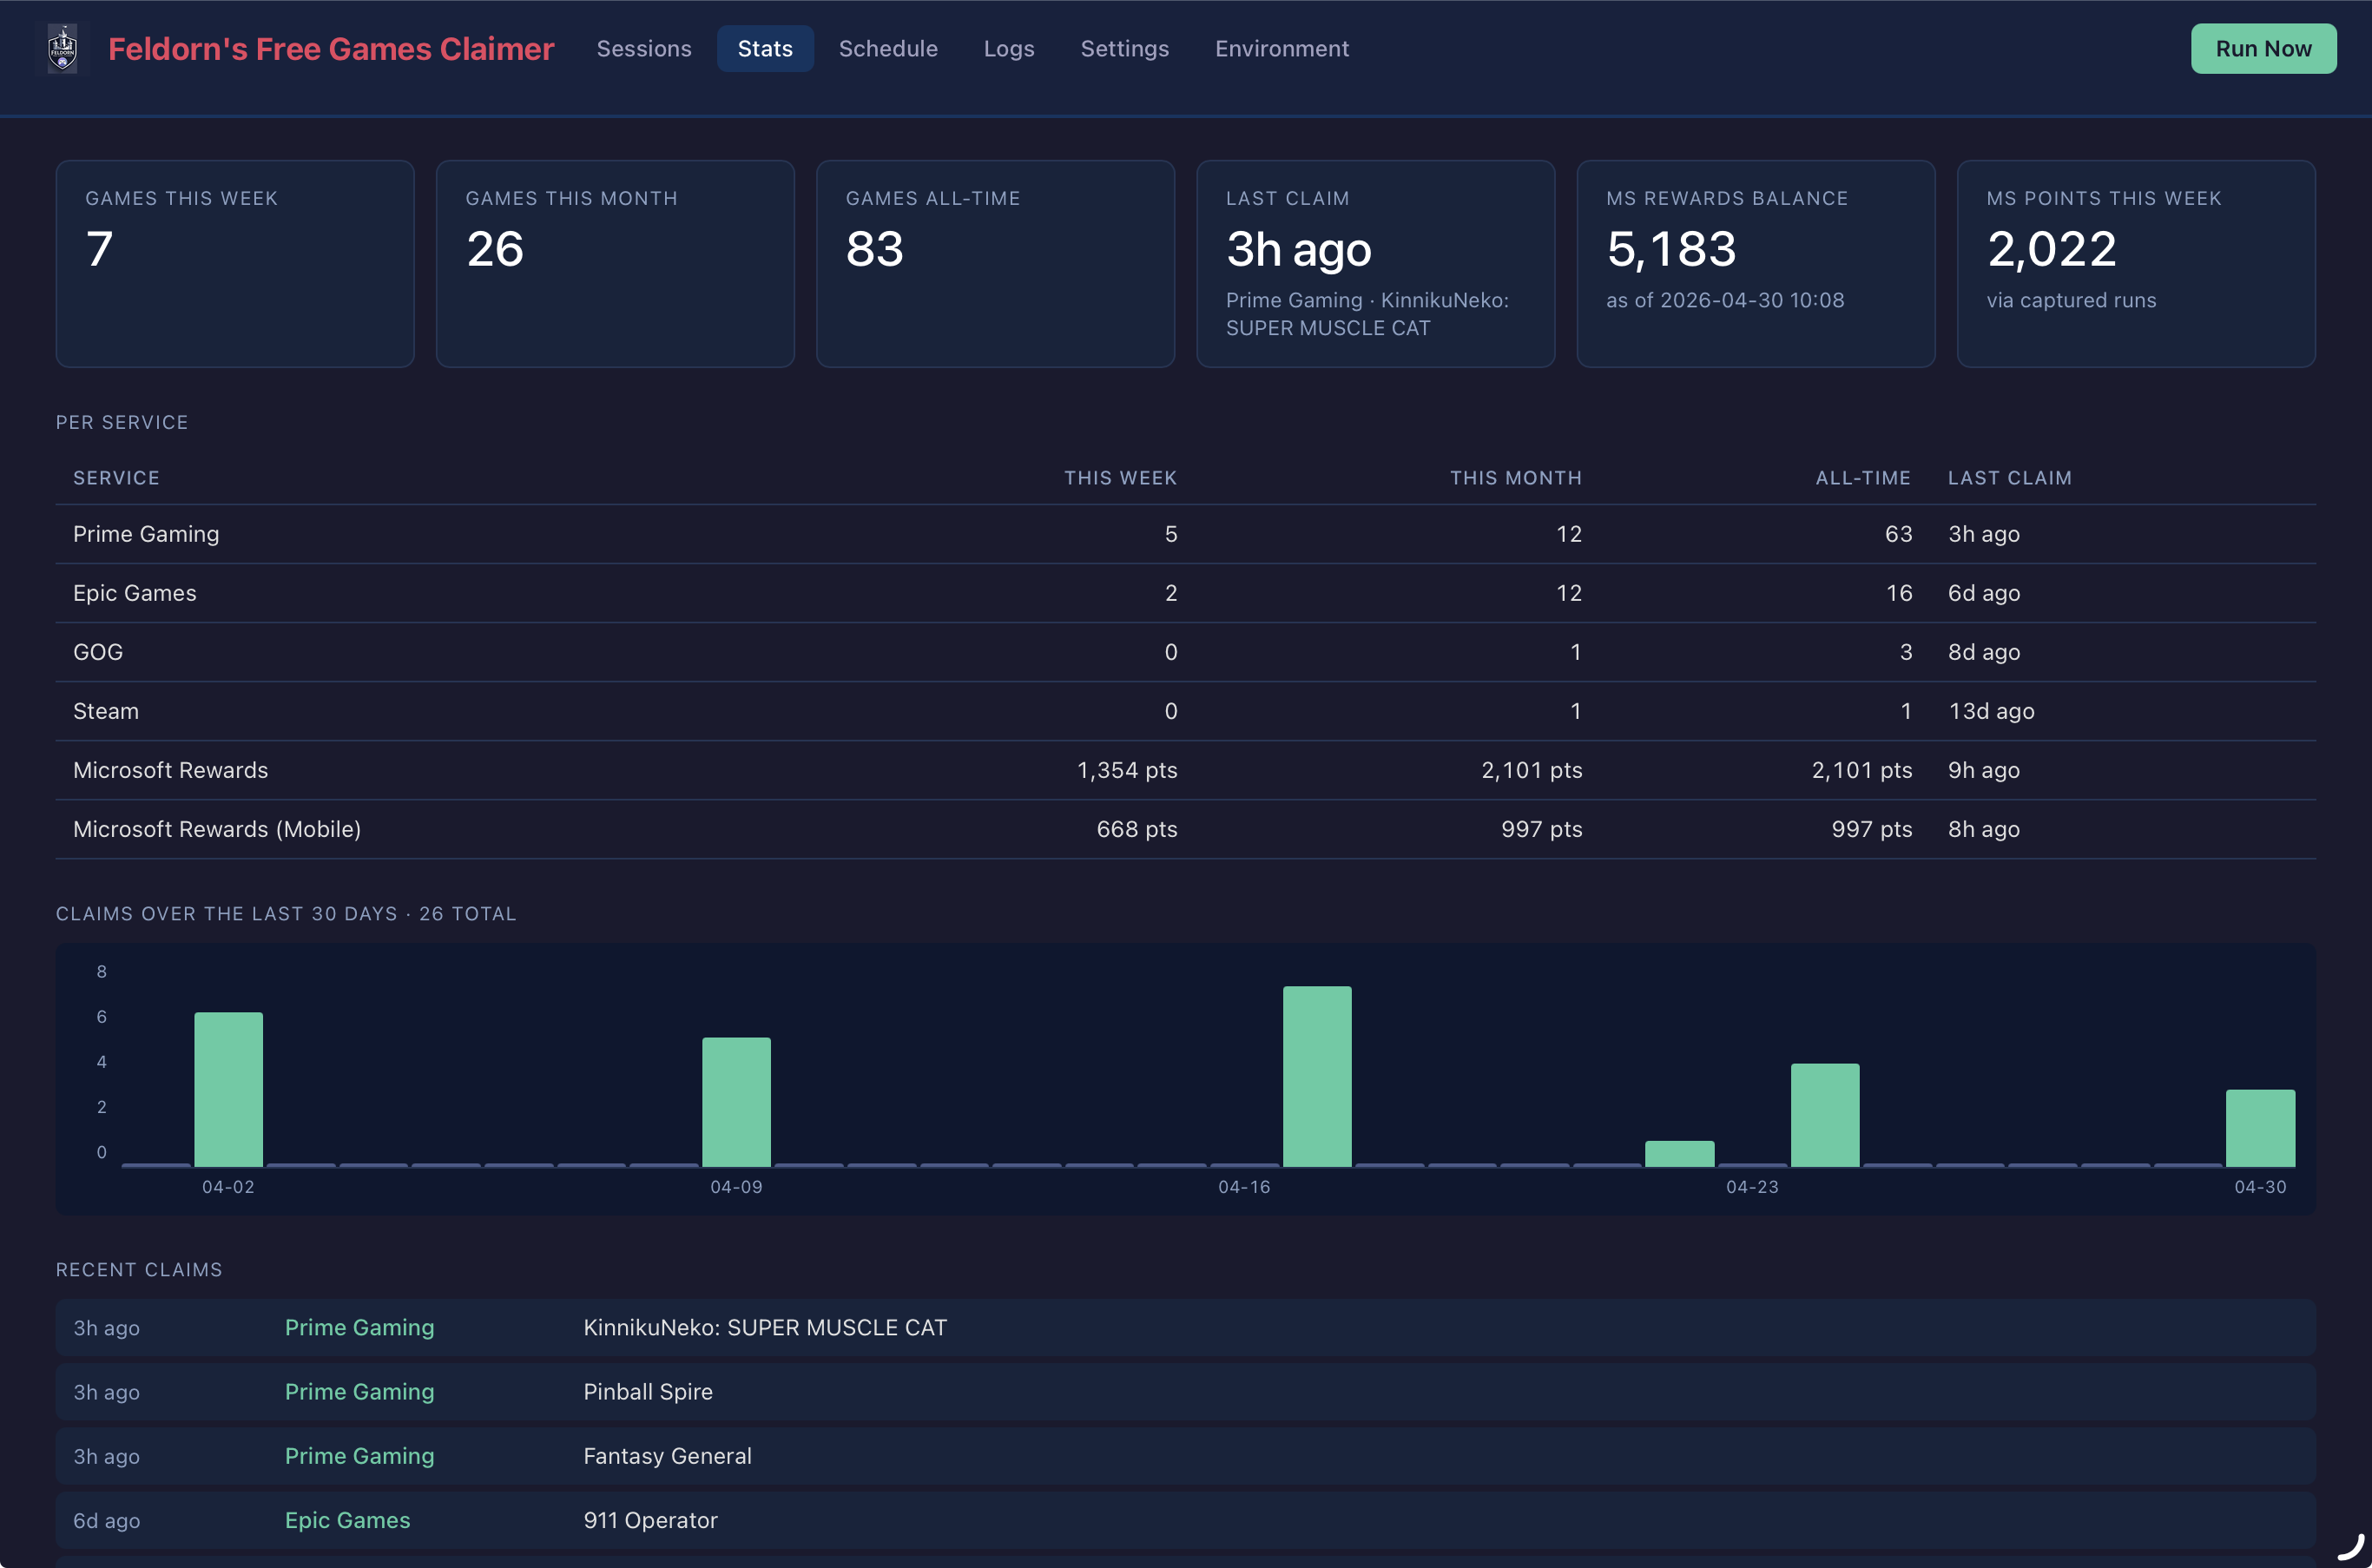
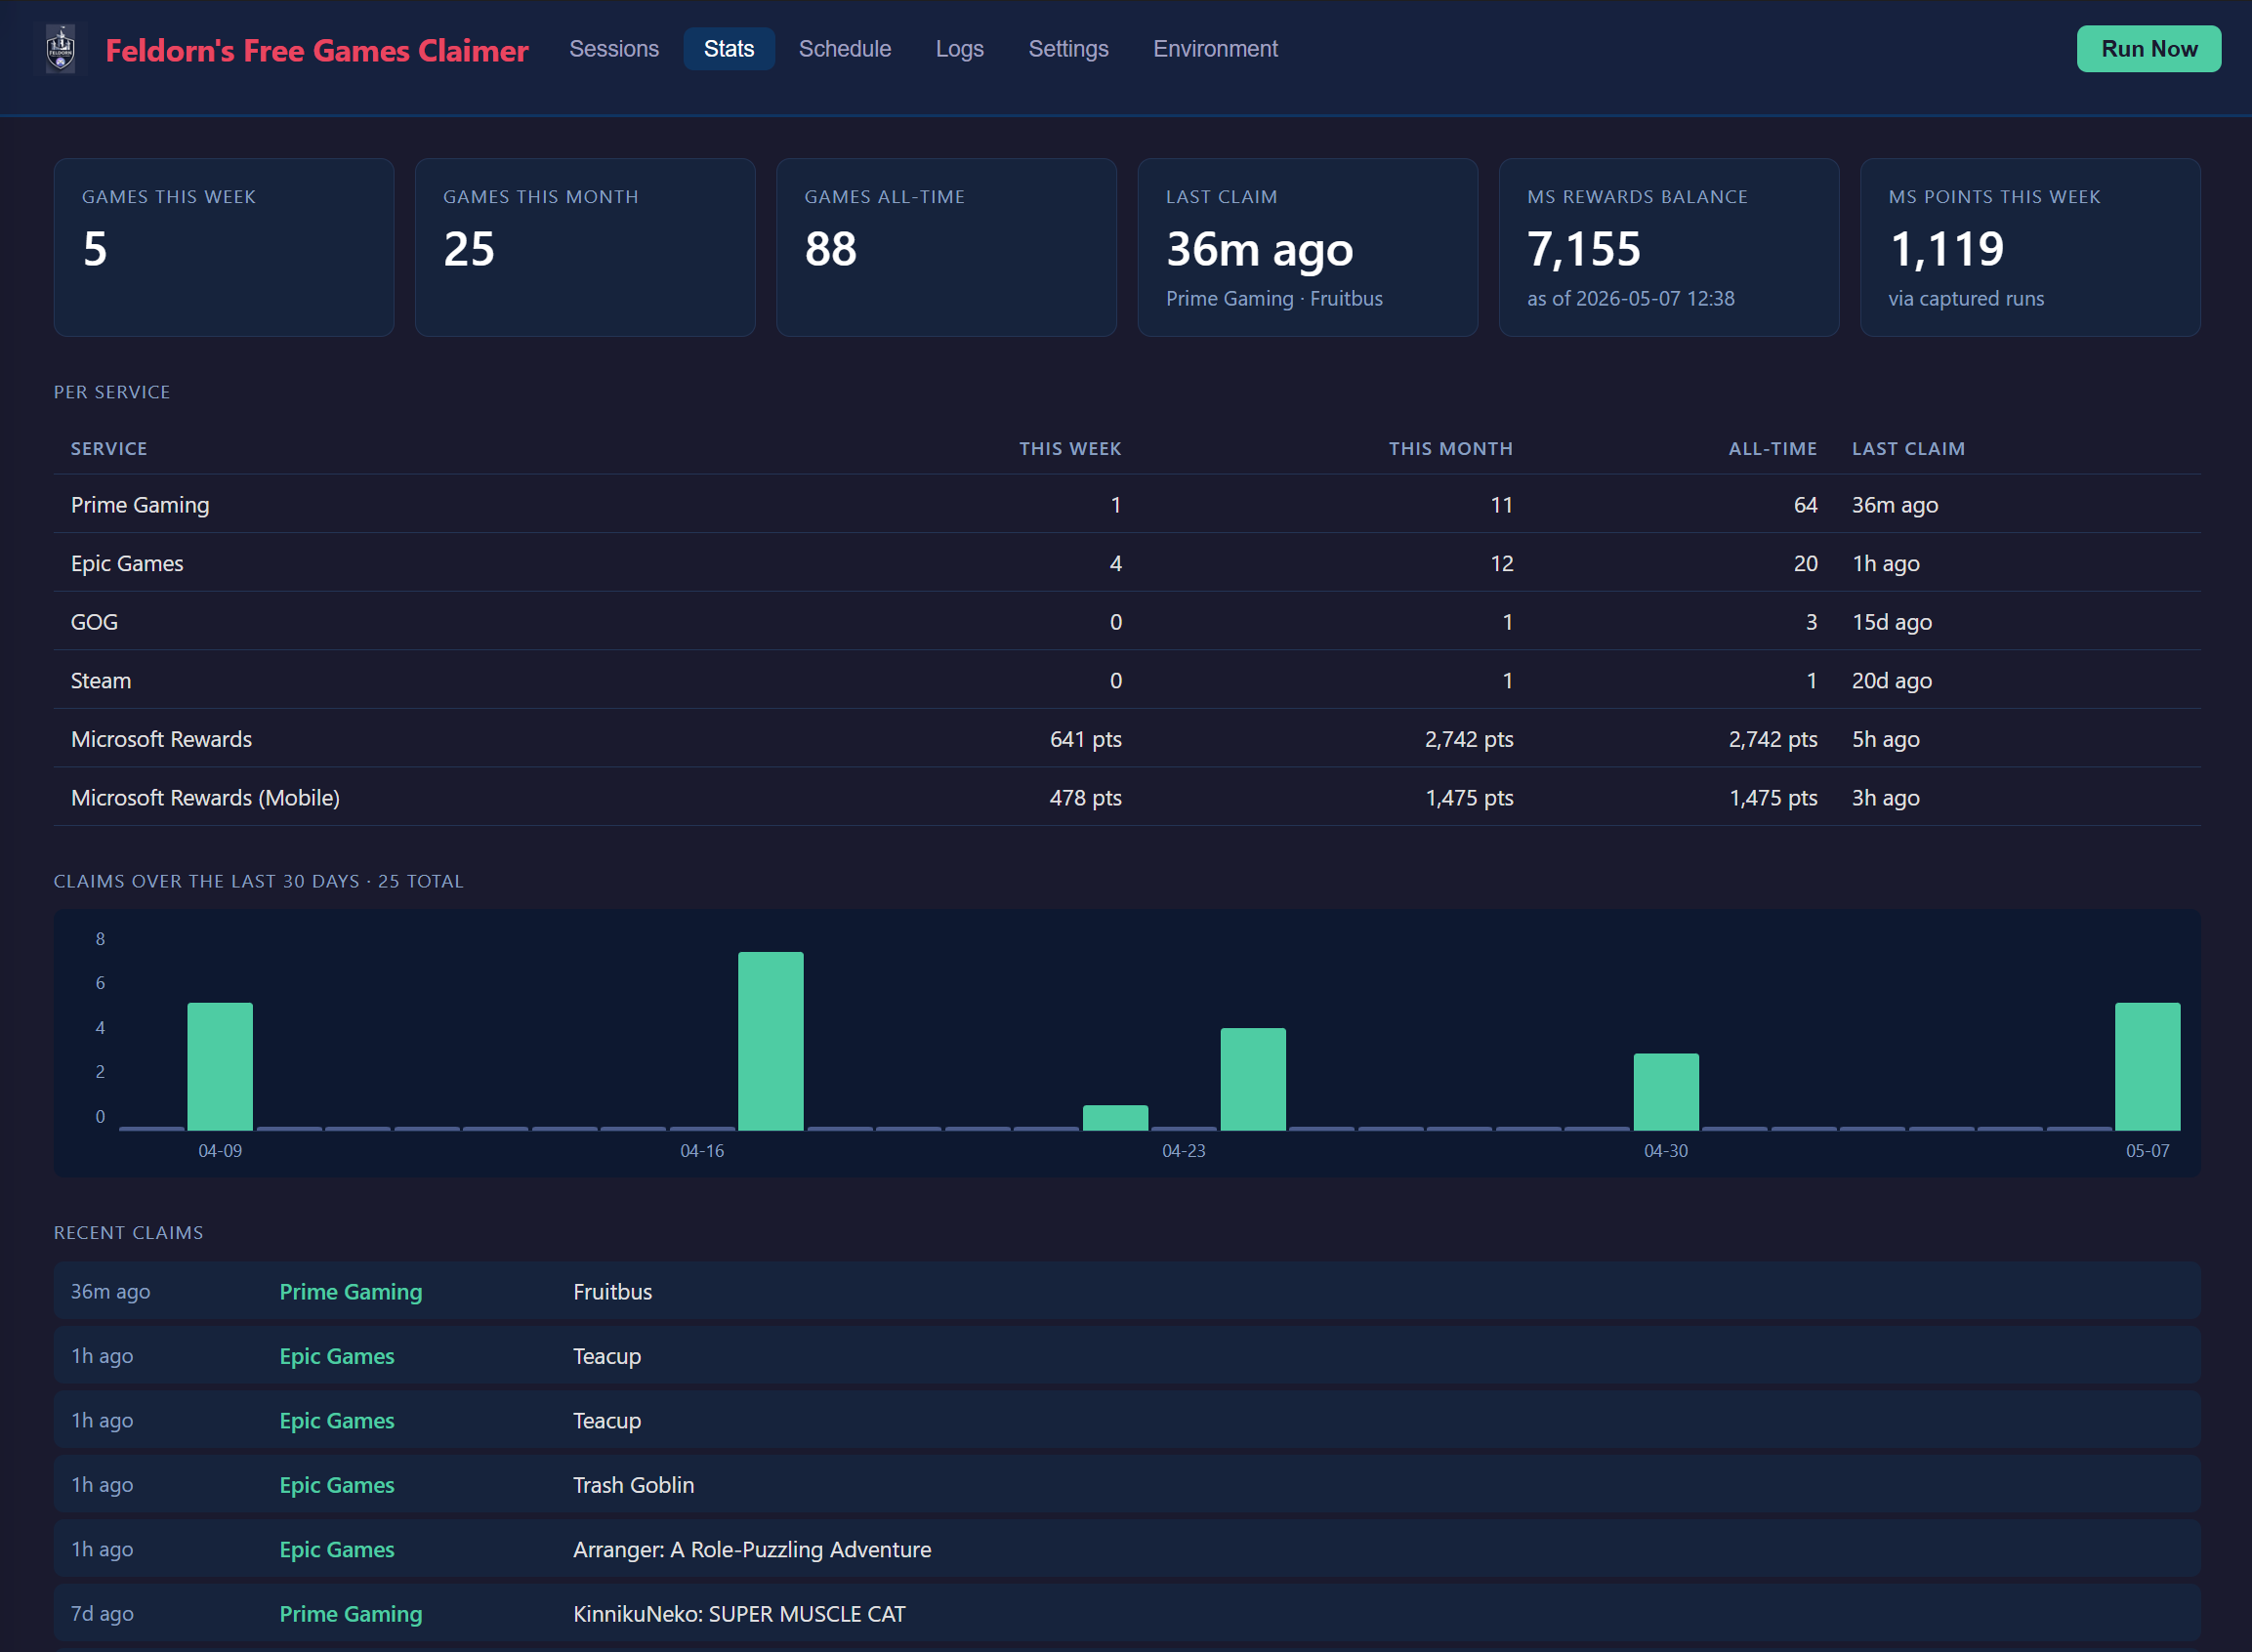
docs(readme): refresh panel screenshots, add Schedule tab image
User provided four updated panel screenshots for the README. Three
replace existing assets; one is new (Schedule tab).

panel-sessions.png:
  Sessions tab. Has six per-card "Logged in as <username>. Successful
  Run YYYY-MM-DD HH:MM:SS." status lines that exposed account
  identifiers in the original capture (Christopher / Feldorn11906 /
  feldorn / Chris Orr). Redacted via PIL: cover each status line with
  the card-interior bg color (#0f3460), overwrite with the generic
  placeholder "Logged in. Successful Run 2026-05-07 16:23:33." so the
  card layout still illustrates the status row's typical shape
  without leaking PII.

panel-stats.png / panel-settings.png:
  No PII visible (Stats shows aggregates / per-service tables / a
  recent-claims list of public game titles; Settings shows config
  switches). Copied as-is.

panel-schedule.png (new):
  Schedule tab capture, no PII. Added to the README's Schedule tab
  section to match the screenshot pattern that Sessions / Stats /
  Settings already use.

panel-show-browser.png left unchanged — the user didn't provide an
updated capture for this one.

diff --git a/README.md b/README.md
@@ -455,6 +455,12 @@ snapshot.
 
 ### Schedule tab
 
+<p align="center">
+<a href="assets/panel-schedule.png" target="_blank"><img alt="Schedule tab — next-run wall times, intervals, last-run status" src="assets/panel-schedule.png" width="800"/></a>
+<br/>
+<em>Schedule tab — next-run wall times, intervals, services list, last-run status. Click for full size.</em>
+</p>
+
 - **Next run:** wall time (`2026-04-20 07:30`) with a live countdown
   (`in 22h 8m`) updated every 30s.
 - **Next run · Claimers / Next run · MS Rewards:** in decoupled mode the two